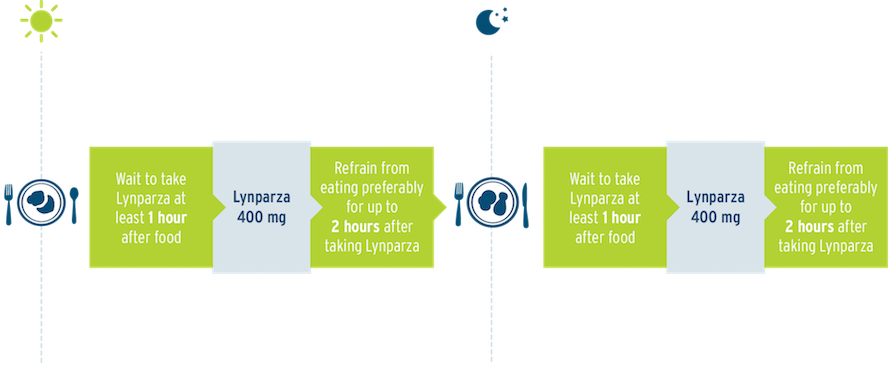
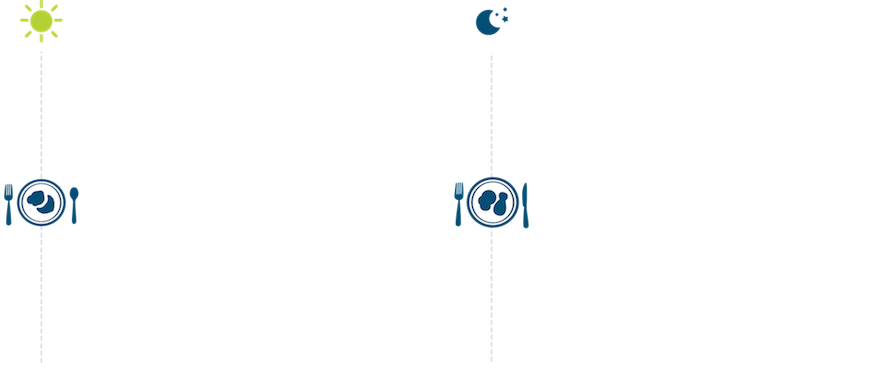
Working on slide 3 on the boxes

Changed region(s): [[0.0912, 0.3577, 0.5169, 0.7453], [0.6081, 0.3577, 1.0, 0.7453]]

diff --git a/Lynparza 2016/AB/template/LYN201606-Extended-PFS.html b/Lynparza 2016/AB/template/LYN201606-Extended-PFS.html
@@ -68,7 +68,32 @@
 
     /*SLIDE 3*/
     .bodyContainer{ width:930px; height:400px; margin-top:45px;}
-    .bodyContainer > img {background-image: url('./img/dosing_diagram.png'); background-repeat: no-repeat; width: 950px; height: 350px;}
+    .bodyContainer > span {background-image: url('./img/dosing_diagram.png'); background-repeat: no-repeat; width: 950px; height: 350px; position: absolute;}
+
+    .plusButtons > li{background-image: url('./img/+_icon.png'); background-repeat: no-repeat; width: 25px; height: 25px; display: inline-block; margin-top: 110px;}
+    .plusButtons > li:first-child{margin-left:29px;}
+    .plusButtons > li:nth-child(2){margin-top:5px; margin-left:29px; position: absolute;}
+    .plusButtons > li:nth-child(3){margin-left:190px;}
+    .plusButtons > li:last-child{margin-left:540px;}
+
+
+    .bottomArrowS3{margin-top: -90px; width: 200px;}
+    .bottomArrowS3 > li{ display: inline-block; }
+    .bottomArrowS3 > li:first-child{background-image: url('./img/i_icon.png'); width: 85px; height: 85px;}
+
+    .boxLayout {position: absolute; with:860px; height: 170px; margin-top: 150px; margin-left:95px;}
+    .boxLayout > li {width:360px; height:145px; display: inline-block;  }
+    .boxLayout > li:last-child { margin-left: 100px; }
+    
+    .boxDesign > li{width:125px; height:130px; background-color: #b2d144; display: inline-block; margin-left: -5px;}
+    .boxDesign > li:nth-child(2) { width: 100px; height:145px; background-color: #d9e4ea; margin-top:-7px; position: absolute;}
+    .boxDesign > li:last-child {margin-left: 80px;}
+
+
+    .boxArrows > li {position: absolute; width: 0;height: 0;border-top: 15px solid transparent;border-left: 20px solid #b2d144;
+    border-bottom: 15px solid transparent;margin-top: -85px;margin-left: 120px; display: inline-block;}
+    .boxArrows > li:nth-child(2){border-left: 20px solid #d9e4ea; margin-left:215px;}
+    .boxArrows > li:last-child{margin-left: 330px;}
 	
 </style> 
 </head>
@@ -539,9 +564,44 @@ included OS, best overall response, HRQoL, safety and tolerability.
                         </h2>
 
                         <div class="bodyContainer">
-                            <img />
+                            <span></span>
+                            <ul class="boxLayout">
+                            	<li>
+	                            	<ul class="boxDesign">
+	                            		<li></li>
+	                            	    <li></li>
+	                            		<li></li>
+	                            	</ul>
+	                             	<ul class="boxArrows">
+	                             		<li></li>
+	                             		<li></li>
+	                             		<li></li>
+	                             	</ul>
+                            	<li>
+                            	 <ul class="boxDesign">
+                            		<li></li>
+                            		<li></li>
+                            		<li></li>
+                            	 </ul>
+                            	 	<ul class="boxArrows">
+	                             		<li></li>
+	                             		<li></li>
+	                             		<li style="display:none"></li>
+	                             	</ul>
+                            	</li>
+                            </ul>
+                            <ul class="plusButtons">
+                            	<li></li>
+                            	<li></li>
+                            	<li></li>
+                            	<li></li>
+                            </ul>
+
                         </div>
                      </li>
+                      <ul class="bottomArrowS3">
+                          <li></li>
+                      </ul>
                 </ul><!-- end swiper-wrapper -->
                 <!-- Add Arrows -->
        			<span class="swiper-button icon arrow swiper-button-next"></span>
